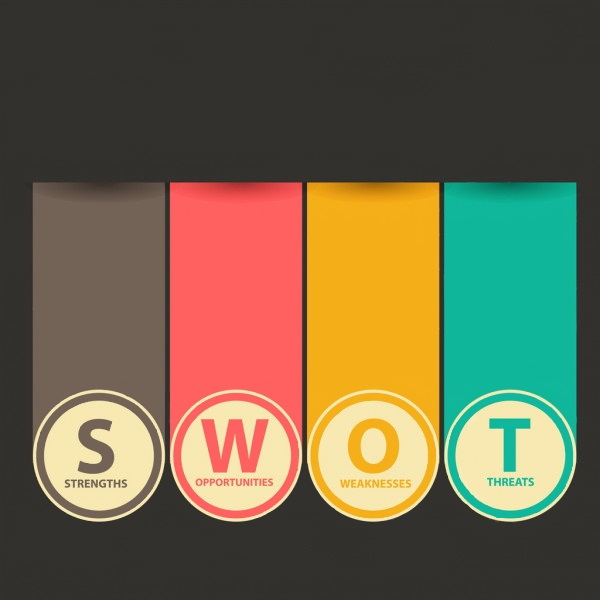
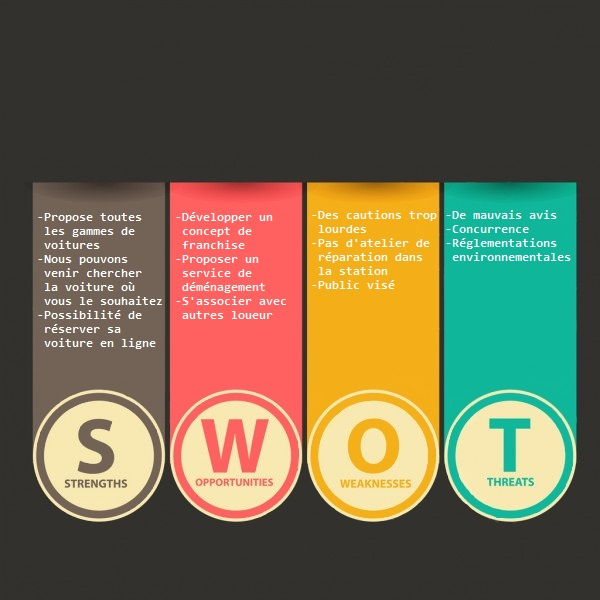
ajout

diff --git a/Projet/CODE/Style.css b/Projet/CODE/Style.css
@@ -1,0 +1,99 @@
+header{
+    height: 100%;
+    width: 100%;
+    background-color: #1B263B ;
+    display: flex;
+    justify-content: space-between;
+    align-items: center;
+}
+body{
+    background-color: #415A77;
+}
+#theader{
+    text-align: center;
+}
+#bheader{
+    display: flex;
+}
+.logo{
+    margin-top: 10px;
+}
+
+body {
+    color: #415A77;
+    font-size: 18px;
+    font-weight: 600;
+    line-height: 1.5;
+    letter-spacing: 1px;
+    text-transform: uppercase;
+    font-family: 'Raleway', sans-serif;
+  }
+  
+  a {
+    text-decoration: none;
+    display: flex;
+    margin-top: 45px;
+  }
+  
+  .btn {
+    height: 50px;
+    line-height: 50px;
+    text-align: center;
+    transform: translate(-50%, -50%);
+    -webkit-transition: all .3s ease-out;
+    -o-transition: all .3s ease-out;
+    transition: all .3s ease-out;
+  }
+  
+  .text {
+    padding: 0 50px;
+    visibility: hidden;
+  }
+  
+  .flip-front, 
+  .flip-back {
+      position: absolute;
+      left: 0;
+      top: 0;
+      width: 100%;
+      height: 100%;
+      -webkit-transform-style: flat;
+      transform-style: flat;
+      -webkit-transition: -webkit-transform .3s ease-out;
+      -o-transition: -o-transform .3s ease-out;
+      transition: transform .3s ease-out;
+  }
+  
+  .flip-front {
+      color: #415A77;
+      border: 2px solid #415A77;
+      background-color: transparent;
+      -webkit-transform: rotateX(0deg) translateZ(25px);
+      -ms-transform: rotateX(0deg) translateZ(25px);
+      -o-transform: rotateX(0deg) translateZ(25px);
+      transform: rotateX(0deg) translateZ(25px);
+  }
+  
+  .flip-back {
+    color: #fff;
+    background-color: #415A77;
+    border: 2px solid #415A77;
+    -webkit-transform: rotateX(90deg) translateZ(25px);
+    -ms-transform: rotateX(90deg) translateZ(25px);
+    -o-transform: rotateX(90deg) translateZ(25px);
+    transform: rotateX(90deg) translateZ(25px);
+  }
+  
+  .btn:hover .flip-front {
+      -webkit-transform: rotateX(-90deg) translateZ(25px);
+      -ms-transform: rotateX(-90deg) translateZ(25px);
+      -o-transform: rotateX(-90deg) translateZ(25px);
+      transform: rotateX(-90deg) translateZ(25px);
+  }
+  
+  .btn:hover .flip-back {
+      -webkit-transform: rotateX(0deg) translateZ(25px);
+      -ms-transform: rotateX(0deg) translateZ(25px);
+      -o-transform: rotateX(0deg) translateZ(25px);
+      transform: rotateX(0deg) translateZ(25px);
+  }

diff --git a/Projet/CODE/index.html b/Projet/CODE/index.html
@@ -1,0 +1,52 @@
+<!doctype HTML>
+
+<html lang="fr">
+    <head>
+    <meta charset="utf-8">
+    <title>Accueil</title>
+    <link rel="stylesheet" href="Style.css">
+    <link rel="preconnect" href="https://fonts.googleapis.com">
+    <link rel="preconnect" href="https://fonts.gstatic.com" crossorigin>
+    <link href="https://fonts.googleapis.com/css2?family=Montserrat:wght@100;200;300&display=swap" rel="stylesheet">
+    </head>
+
+    <header>
+        <div id="theader">
+            <a href="#" class="logo"><img src="../LOGO/logo1.png" alt="Logo LRC CAR" title="Logo LRC"></a>
+        </div>
+        <div id="bheader">
+            <a href="#" class="btn">
+                <span class="text">Text</span>
+                <span class="flip-front">111111</span>
+                <span class="flip-back">Back</span>
+            </a>
+            <a href="#" class="btn">
+                <span class="text">Text</span>
+                <span class="flip-front">222222</span>
+                <span class="flip-back">Back</span>
+            </a>
+            <a href="#" class="btn">
+                <span class="text">Text</span>
+                <span class="flip-front">333333</span>
+                <span class="flip-back">Back</span>
+            </a>
+            <a href="#" class="btn">
+                <span class="text">Text</span>
+                <span class="flip-front">444444</span>
+                <span class="flip-back">Back</span>
+            </a>
+            <a href="#" class="btn">
+                <span class="text">Text</span>
+                <span class="flip-front">555555</span>
+                <span class="flip-back">Back</span>
+            </a>
+        </div>
+        
+    </header>
+
+    <body>
+        
+    </body>
+    
+    
+      

diff --git a/Projet/CODE/java.js b/Projet/CODE/java.js
@@ -1,0 +1,9 @@
+$(window).ready(function(){
+    $(".boton").wrapInner('<div class=botontext></div>');
+        
+        $(".botontext").clone().appendTo( $(".boton") );
+        
+        $(".boton").append('<span class="twist"></span><span class="twist"></span><span class="twist"></span><span class="twist"></span>');
+        
+        $(".twist").css("width", "25%").css("width", "+=3px");
+    });
